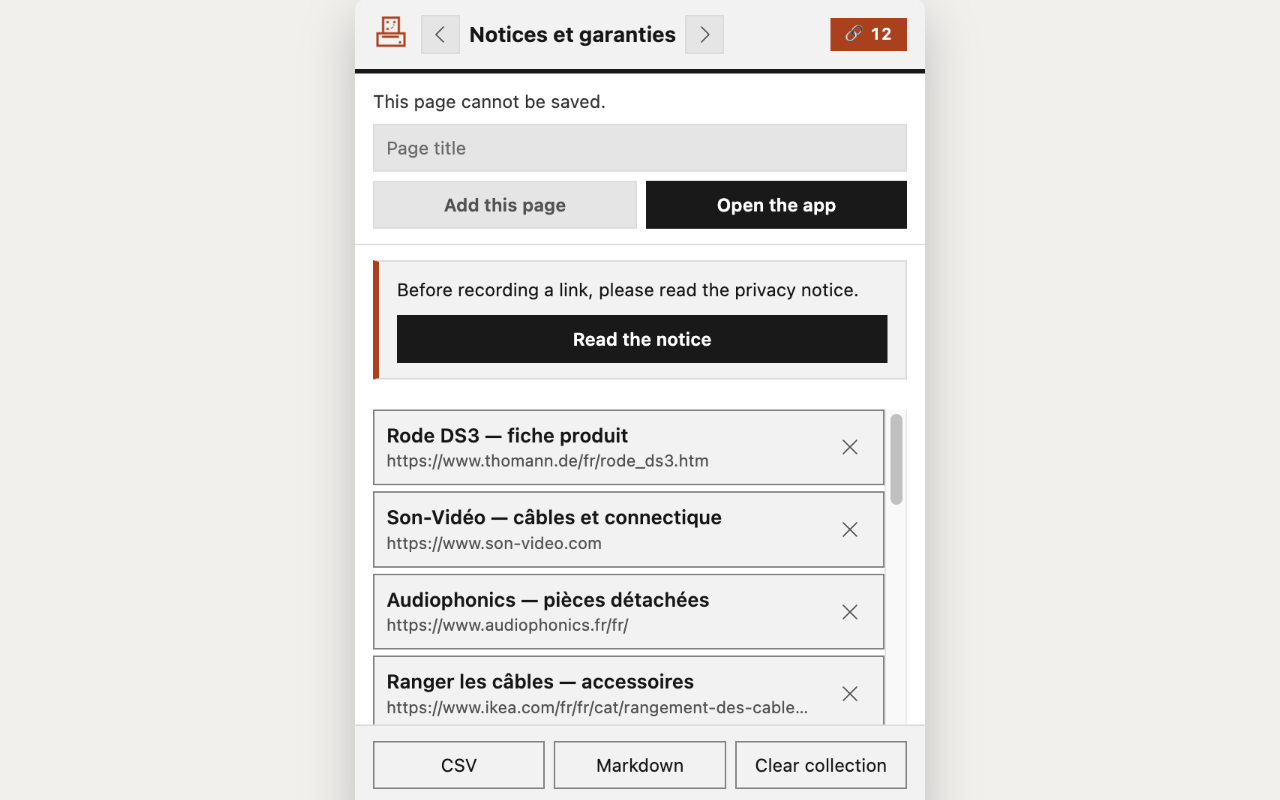
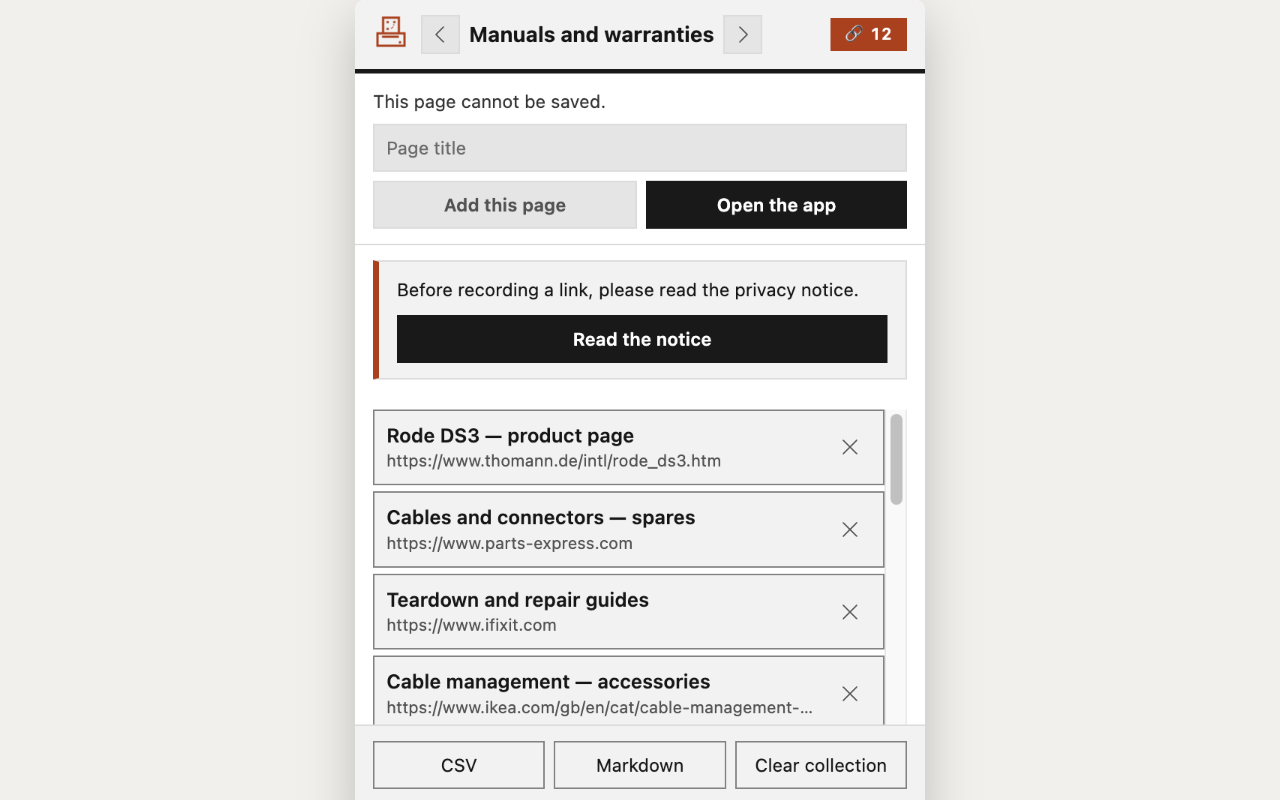
Traduit le contenu des captures anglaises pour la fiche internationale

diff --git a/test/publication.test.js b/test/publication.test.js
@@ -314,20 +314,20 @@ test('chaque capture a une taille acceptée par le magasin', () => {
   assert.ok(mesures.length > 0, 'aucune capture mesurée');
 });
 
-test('le contenu d\'exemple des captures est importable, et se lit à 640 × 400', () => {
-  // `store/screenshots/contenu-exemple.json` est chargé par le bouton
-  // « Importer » avant chaque série de captures : c'est ce qui les rend
-  // reproductibles. Un fichier que l'importateur refuse ne se verrait qu'au
-  // moment de la séance photo — d'où ce contrôle, qui le relit avec le code du
-  // produit plutôt qu'avec un `JSON.parse`.
-  const chemin = join(ROOT, 'store', 'screenshots', 'contenu-exemple.json');
-  assert.ok(existsSync(chemin), 'le contenu d\'exemple a disparu');
-  const texte = readFileSync(chemin, 'utf8');
-
+/**
+ * Vérifie un contenu d'exemple : il doit être importable, lisible dans les deux
+ * tailles du magasin, et assez varié pour montrer quelque chose.
+ *
+ * @param {string} nomFichier
+ * @returns {{ collection: object, links: Array<object>, tags: Set<string> }}
+ */
+function verifierContenuExemple(nomFichier) {
+  const chemin = join(CAPTURES, nomFichier);
+  assert.ok(existsSync(chemin), `${nomFichier} est absent`);
   const { kind, records, collection } = parseImportFile({
-    name: 'contenu-exemple.json', text: texte,
+    name: nomFichier, text: readFileSync(chemin, 'utf8'),
   });
-  assert.equal(kind, 'links', 'le format reconnu doit être celui de l\'archive du produit');
+  assert.equal(kind, 'links', `${nomFichier} : le format doit être celui de l'archive du produit`);
 
   // Le nom et la note de collection sont **lus** par l'importateur : ils vivent
   // dans un objet `collection`. Une chaîne à cette place passe inaperçue —
@@ -335,25 +335,66 @@ test('le contenu d\'exemple des captures est importable, et se lit à 640 × 400
   // rien ne le signale avant la séance photo.
   assert.ok(
     (collection?.name ?? '').trim().length > 0,
-    'le contenu d\'exemple ne donne pas de nom à la collection',
+    `${nomFichier} ne donne pas de nom à la collection`,
   );
 
   const { links, rejected } = toImportableLinks(records, { now: 1_750_000_000_000 });
-  assert.equal(rejected, 0, `${rejected} lien(s) refusé(s) par l'importateur`);
-  assert.ok(links.length >= 10, `une capture montre une collection : ${links.length} lien(s), c'est peu`);
+  assert.equal(rejected, 0, `${nomFichier} : ${rejected} lien(s) refusé(s) par l'importateur`);
+  assert.ok(links.length >= 10, `${nomFichier} : ${links.length} lien(s), c'est peu`);
 
   // Ce que la fenêtre de 380 px impose : un titre qui se replie sur deux lignes
   // rend la capture illisible une fois réduite par le magasin.
   const trop = links.filter((lien) => (lien.title ?? '').length > 45);
   assert.equal(trop.length, 0,
-    `titre(s) trop long(s) pour la colonne étroite : ${trop.map((l) => l.title).join(', ')}`);
+    `${nomFichier} : titre(s) trop long(s) — ${trop.map((l) => l.title).join(', ')}`);
 
   // Un domaine unique répété douze fois ne montre rien : la variété est le but.
   const domaines = new Set(links.map((lien) => new URL(lien.url).hostname));
   assert.ok(domaines.size >= links.length - 2,
-    `${links.length} liens pour ${domaines.size} domaine(s) : la collection doit être variée`);
+    `${nomFichier} : ${links.length} liens pour ${domaines.size} domaine(s)`);
 
   // Les tags sont une fonction : une capture qui n'en montre aucun ne la vend pas.
   const tags = new Set(links.flatMap((lien) => lien.tags ?? []));
-  assert.ok(tags.size >= 4, `${tags.size} tag(s) distinct(s) : la liste n'en montrerait presque aucun`);
+  assert.ok(tags.size >= 4, `${nomFichier} : ${tags.size} tag(s) distinct(s), c'est peu`);
+
+  return { collection, links, tags };
+}
+
+test('le contenu d\'exemple français est importable, et se lit à 640 × 400', () => {
+  // `store/screenshots/contenu-exemple.json` est chargé par le bouton
+  // « Importer » avant la série française : c'est ce qui rend les captures
+  // reproductibles. Un fichier que l'importateur refuse ne se verrait qu'au
+  // moment de la séance photo — d'où ce contrôle, qui le relit avec le code du
+  // produit plutôt qu'avec un `JSON.parse`.
+  verifierContenuExemple('contenu-exemple.json');
 });
+
+test('le contenu d\'exemple anglais est importable, et entièrement en anglais', () => {
+  // La fiche anglaise reçoit la série `-en` : son contenu d'exemple ne doit
+  // montrer **aucun texte français**, sinon la fiche internationale affiche une
+  // collection française au milieu d'une interface anglaise. Les noms et notes
+  // de collection, les titres, les tags et les notes de liens sont donc en
+  // anglais ; les adresses sont des équivalents anglais ou internationaux.
+  const { collection, links, tags } = verifierContenuExemple('contenu-exemple-en.json');
+
+  // Un simple test d'accent suffit à attraper une copie du fichier français :
+  // les mots anglais retenus n'en portent pas, et le fichier français en est
+  // plein (« garantie », « notice », « rangement », « étiqueteuse »…).
+  const textes = [
+    collection.name, collection.note,
+    ...links.flatMap((lien) => [lien.title, lien.note, ...(lien.tags ?? [])]),
+  ].filter((texte) => typeof texte === 'string');
+  const accents = textes.filter((texte) => /[àâäéèêëîïôöùûüçœæ]/i.test(texte));
+  assert.deepEqual(accents, [], `texte(s) encore français : ${accents.join(' · ')}`);
+
+  // Le nom de collection diffère de celui du fichier français : deux séries qui
+  // porteraient le même nom trahiraient un contenu recopié.
+  const francais = verifierContenuExemple('contenu-exemple.json');
+  assert.notEqual(collection.name, francais.collection.name,
+    'les contenus d\'exemple français et anglais portent le même nom de collection');
+
+  // Les tags sont visibles sous chaque ligne : un tag français resterait français
+  // dans la capture anglaise même si le titre, lui, a été traduit.
+  assert.ok(tags.size >= 4, 'la série anglaise doit montrer des tags variés');
+});
+

diff --git a/store/screenshots/README.md b/store/screenshots/README.md
@@ -61,12 +61,21 @@ un bouton « Tout effacer », et un autre qui n'existe plus — que la version
 déposée n'a plus.
 
 `02`, `03`, `04` et `05` sont produites par `scripts/capture-store-shots.mjs` sur
-`contenu-exemple.json` : elles montrent donc la collection d'exemple, avec ses
+un **contenu d'exemple** : elles montrent donc la collection d'exemple, avec ses
 tags, ses notes et son nom — et non trois fois la même adresse. Elles ont été
 **régénérées pour la soumission 0.3.0**, après le déplacement d'« Enregistrer »
 et « Nouvelle » sous le nom de collection, la validation explicite du nom et le
 panneau de confirmation de suppression : les captures montrent donc l'interface
 réellement déposée.
+
+**Deux contenus, un par langue.** La fiche française se sert de
+`contenu-exemple.json` ; la fiche anglaise de `contenu-exemple-en.json`. Ce
+n'est pas une traduction de l'interface — elle vient du sélecteur de langue —
+mais du **contenu de la collection** : nom et note de collection, titres, tags,
+notes des liens. Sans lui, la fiche internationale montrerait une collection
+française au milieu d'une interface anglaise. Les adresses du fichier anglais
+sont des équivalents anglais ou internationaux (Wikipédia anglais, IKEA UK,
+Europa, Thomann international…), relevés le 4 novembre 2026.
 
 `05` est nouvelle. Sa mise en scène est celle de la 0.3.0, et elle est réelle :
 le script **tape** un nom, vérifie que l'aide d'attente dit ce qu'elle doit dire
@@ -74,8 +83,9 @@ le script **tape** un nom, vérifie que l'aide d'attente dit ce qu'elle doit dir
 « Enregistrer » (il refuse de continuer si le bouton est resté inactif), puis
 ouvre le panneau de suppression de la collection qui vient d'être renommée. Pour
 que la scène soit possible, elle ajoute deux collections à celles du contenu
-d'exemple — `contenu-fiche.json`, lu par le script : sans elles, « Supprimer »
-serait grisé, puisqu'il doit toujours rester une collection.
+d'exemple — `contenu-fiche.json`, lu par le script, avec un jeu de noms par
+langue : sans elles, « Supprimer » serait grisé, puisqu'il doit toujours rester
+une collection.
 
 Le dossier ne contient **que les captures déclarées**. Les huit captures brutes
 du 30 septembre (2870 × 1796, non déclarées) ont été déplacées hors du dossier,

diff --git a/README.fr.md b/README.fr.md
@@ -48,7 +48,7 @@ retrouve et se partage facilement.
 | Socle natif Swift (protocole, session, CoreBluetooth) | fait, testé |
 | Application iOS qui utilise ce socle | à faire |
 
-**1177 tests, tous verts** — 1073 en JavaScript et 104 en Swift — dont :
+**1178 tests, tous verts** — 1074 en JavaScript et 104 en Swift — dont :
 
 - la validation **octet à octet** des trames Niimbot contre les relevés
   documentés, **dans les deux langages** : deux implémentations indépendantes
@@ -1007,7 +1007,7 @@ pull request :
 
 ```bash
 npm install
-npm run test:all   # 1073 tests JavaScript + 104 tests Swift
+npm run test:all   # 1074 tests JavaScript + 104 tests Swift
 ```
 
 Les conventions du dépôt — cœur sans DOM ni réseau implicite, zéro dépendance,

diff --git a/README.md b/README.md
@@ -47,7 +47,7 @@ share.
 | Native Swift core (protocol, session, CoreBluetooth) | done, tested |
 | iOS app that uses that core | to do |
 
-**1177 tests, all green** — 1073 in JavaScript and 104 in Swift — including:
+**1178 tests, all green** — 1074 in JavaScript and 104 in Swift — including:
 
 - **byte-for-byte** validation of the Niimbot frames against the documented
   records, **in both languages**: two independent implementations that
@@ -986,7 +986,7 @@ exists in French and English. Before opening a pull request:
 
 ```bash
 npm install
-npm run test:all   # 1073 JavaScript tests + 104 Swift tests
+npm run test:all   # 1074 JavaScript tests + 104 Swift tests
 ```
 
 The repository conventions — a core with no DOM and no implicit network, zero
